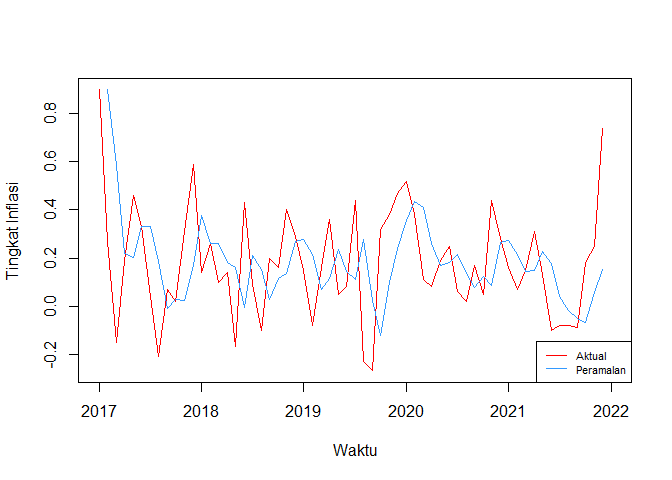
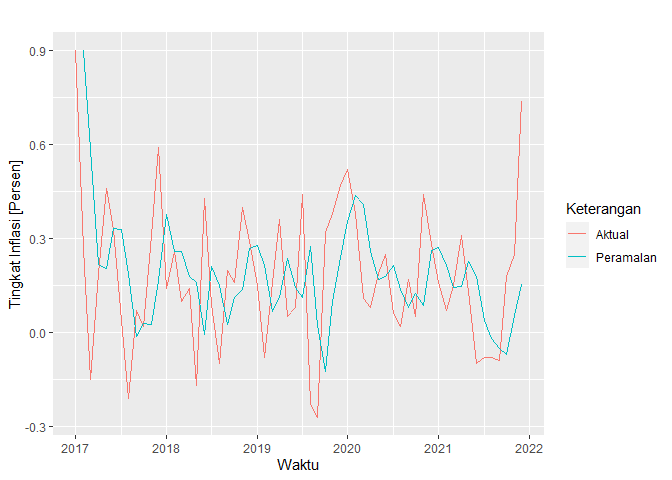
edit plot

diff --git a/Peramalan_Inflasi.md b/Peramalan_Inflasi.md
@@ -8,7 +8,7 @@ April 26, 2022
 
 Data yang digunakan merupakan data tingkat inflasi Kabupaten Tulungagung
 sejak **Januari 2017** sampai dengan **Desember 2021** sehingga
-diperoleh 60 data.
+diperoleh **60 data**.
 
 # Impor Data
 
@@ -668,11 +668,11 @@ dengan nilai **alpha = 0.1** , **beta = 0.1**, dan **gamma = 0.3**
 ## Plot Data Aktual dan Peramalan Model SES
 
 ``` r
-plot(inflasi.ts, main="", xlab = "Waktu", ylab = "Tingkat Inflasi",
-     lwd=1.5, col="#ff0000", xlim=c(2017,2022), pch=15)
-limitDate = end(inflasi.ts)[1]+(end(inflasi.ts)[2]-1)/frequency(inflasi.ts)
-lines(model.15$fitted[,1], lwd=1.5, col="#3399ff",  pch=1)
-legend("bottomright",legend=c("Aktual", "Peramalan"), col=c("red","#3399ff"), lty=1, cex = 0.7, inset=0.0)
+autoplot(inflasi.ts, series="Aktual") +
+  autolayer(model.15$fitted[,1], series="Peramalan") +
+  xlab("Waktu") +
+  ylab("Tingkat Inflasi [Persen]") +
+  guides(colour=guide_legend(title="Keterangan"))
 ```
 
 ![](Peramalan_Inflasi_files/figure-gfm/unnamed-chunk-37-1.png)<!-- -->
@@ -680,22 +680,22 @@ legend("bottomright",legend=c("Aktual", "Peramalan"), col=c("red","#3399ff"), lt
 ## Plot Data Aktual dan Peramalan Model DES
 
 ``` r
-plot(inflasi.ts, main="", xlab = "Waktu", ylab = "Tingkat Inflasi",
-     lwd=1.5, col="#ff0000", xlim=c(2017,2022), pch=15)
-limitDate = end(inflasi.ts)[1]+(end(inflasi.ts)[2]-1)/frequency(inflasi.ts)
-lines(model.29$fitted[,1], lwd=1.5, col="#3399ff",  pch=1)
-legend("bottomright",legend=c("Aktual", "Peramalan"), col=c("red","#3399ff"), lty=1, cex = 0.7, inset=0.0)
+autoplot(inflasi.ts, series="Aktual") +
+  autolayer(model.29$fitted[,1], series="Peramalan") +
+  xlab("Waktu") +
+  ylab("Tingkat Inflasi [Persen]") +
+  guides(colour=guide_legend(title="Keterangan"))
 ```
 
 ![](Peramalan_Inflasi_files/figure-gfm/unnamed-chunk-38-1.png)<!-- -->
 \#\# Plot Data Aktual dan Peramalan Model DES
 
 ``` r
-plot(inflasi.ts, main="", xlab = "Waktu", ylab = "Tingkat Inflasi",
-     lwd=1.5, col="#ff0000", xlim=c(2017,2022), pch=15)
-limitDate = end(inflasi.ts)[1]+(end(inflasi.ts)[2]-1)/frequency(inflasi.ts)
-lines(model.31$fitted[,1], lwd=1.5, col="#3399ff",  pch=1)
-legend("bottomright",legend=c("Aktual", "Peramalan"), col=c("red","#3399ff"), lty=1, cex = 0.7, inset=0.0)
+autoplot(inflasi.ts, series="Aktual") +
+  autolayer(model.31$fitted[,1], series="Peramalan") +
+  xlab("Waktu") +
+  ylab("Tingkat Inflasi [Persen]") +
+  guides(colour=guide_legend(title="Keterangan"))
 ```
 
 ![](Peramalan_Inflasi_files/figure-gfm/unnamed-chunk-39-1.png)<!-- -->
@@ -725,14 +725,14 @@ ramalan.1
 
 ## Plot Hasil Peramalan dengan Model SES Terbaik
 
-Plot hasil ramalan berdasarkan pada 10 data terakhir dari data runtut
-waktu inflasi.ts
+Plot hasil ramalan 10 periode ke depan
 
 ``` r
-train <- inflasi.ts %>% head(-10)
-test <- inflasi.ts %>% tail(10)
-
-autoplot(ramalan.1,xlab="Waktu", ylab="Tingkat Inflasi", main="Plot Hasil Peramalan dengan Model SES Terbaik")+autolayer(test)
+autoplot(inflasi.ts, series="Aktual", main="Plot Hasil Peramalan dengan Model SES Terbaik") +
+  autolayer(ramalan.1, series="Peramalan") +
+  xlab("Observation [Month]") +
+  ylab("Inflasi [Persen]") +
+  guides(colour=guide_legend(title="Keterangan"))
 ```
 
 ![](Peramalan_Inflasi_files/figure-gfm/unnamed-chunk-41-1.png)<!-- -->
@@ -760,14 +760,14 @@ ramalan.2
 
 ## Plot Hasil Peramalan dengan Model DES Terbaik
 
-Plot hasil ramalan berdasarkan pada 10 data terakhir dari data runtut
-waktu inflasi.ts
+Plot hasil ramalan 10 periode ke depan
 
 ``` r
-train <- inflasi.ts %>% head(-10)
-test <- inflasi.ts %>% tail(10)
-
-autoplot(ramalan.2,xlab="Waktu", ylab="Tingkat Inflasi", main="Plot Hasil Peramalan dengan Model DES Terbaik")+autolayer(test)
+autoplot(inflasi.ts, series="Aktual", main="Plot Hasil Peramalan dengan Model DES Terbaik") +
+  autolayer(ramalan.2, series="Peramalan") +
+  xlab("Observation [Month]") +
+  ylab("Inflasi [Persen]") +
+  guides(colour=guide_legend(title="Keterangan"))
 ```
 
 ![](Peramalan_Inflasi_files/figure-gfm/unnamed-chunk-43-1.png)<!-- -->
@@ -795,14 +795,14 @@ ramalan.3
 
 ## Plot Hasil Peramalan dengan Model TES Terbaik
 
-Plot hasil ramalan berdasarkan pada 5 data terakhir dari data runtut
-waktu inflasi.ts
+Plot hasil ramalan 10 periode ke depan
 
 ``` r
-train <- inflasi.ts %>% head(-10)
-test <- inflasi.ts %>% tail(10)
-
-autoplot(ramalan.3,xlab="Waktu", ylab="Tingkat Inflasi", main="Plot Hasil Peramalan dengan Model TES Terbaik")+autolayer(test)
+autoplot(inflasi.ts, series="Aktual", main="Plot Hasil Peramalan dengan Model TES Terbaik") +
+  autolayer(ramalan.3, series="Peramalan") +
+  xlab("Observation [Month]") +
+  ylab("Inflasi [Persen]") +
+  guides(colour=guide_legend(title="Keterangan"))
 ```
 
 ![](Peramalan_Inflasi_files/figure-gfm/unnamed-chunk-45-1.png)<!-- -->
